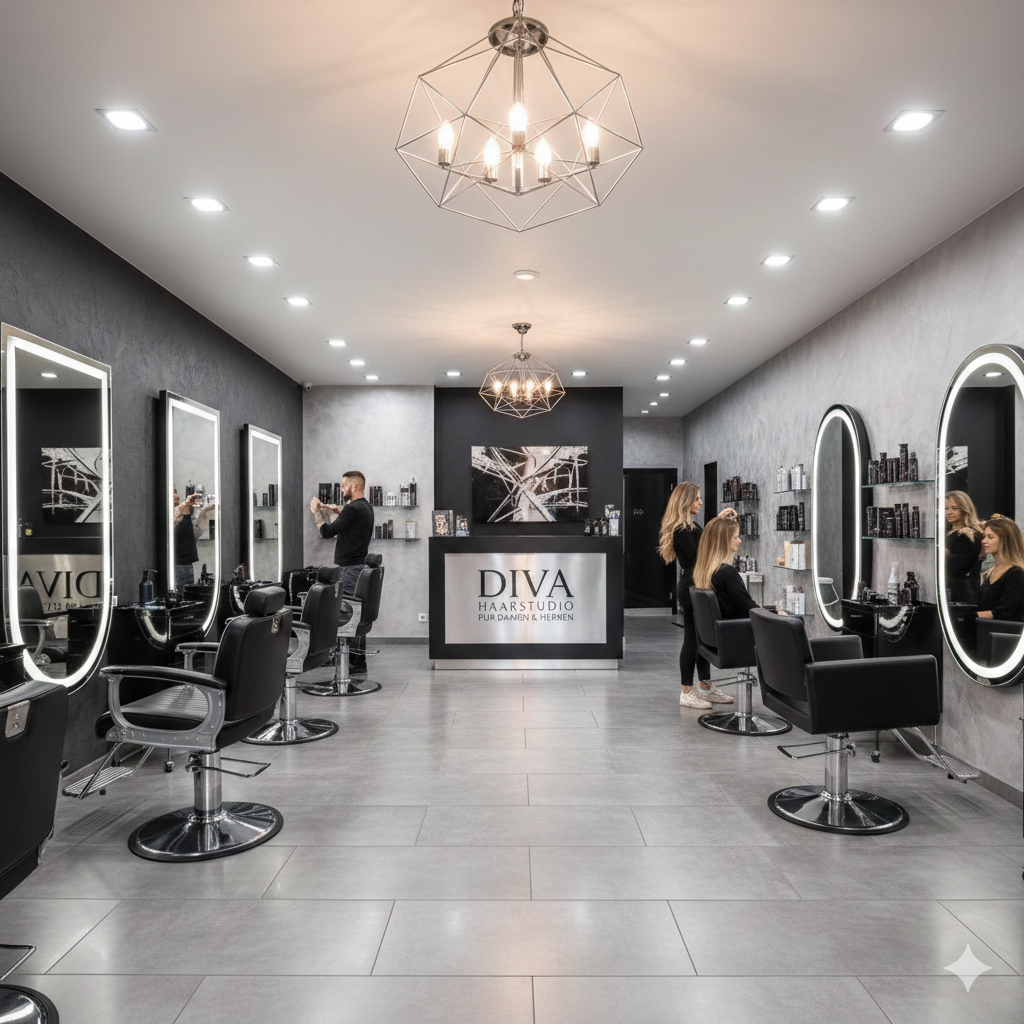
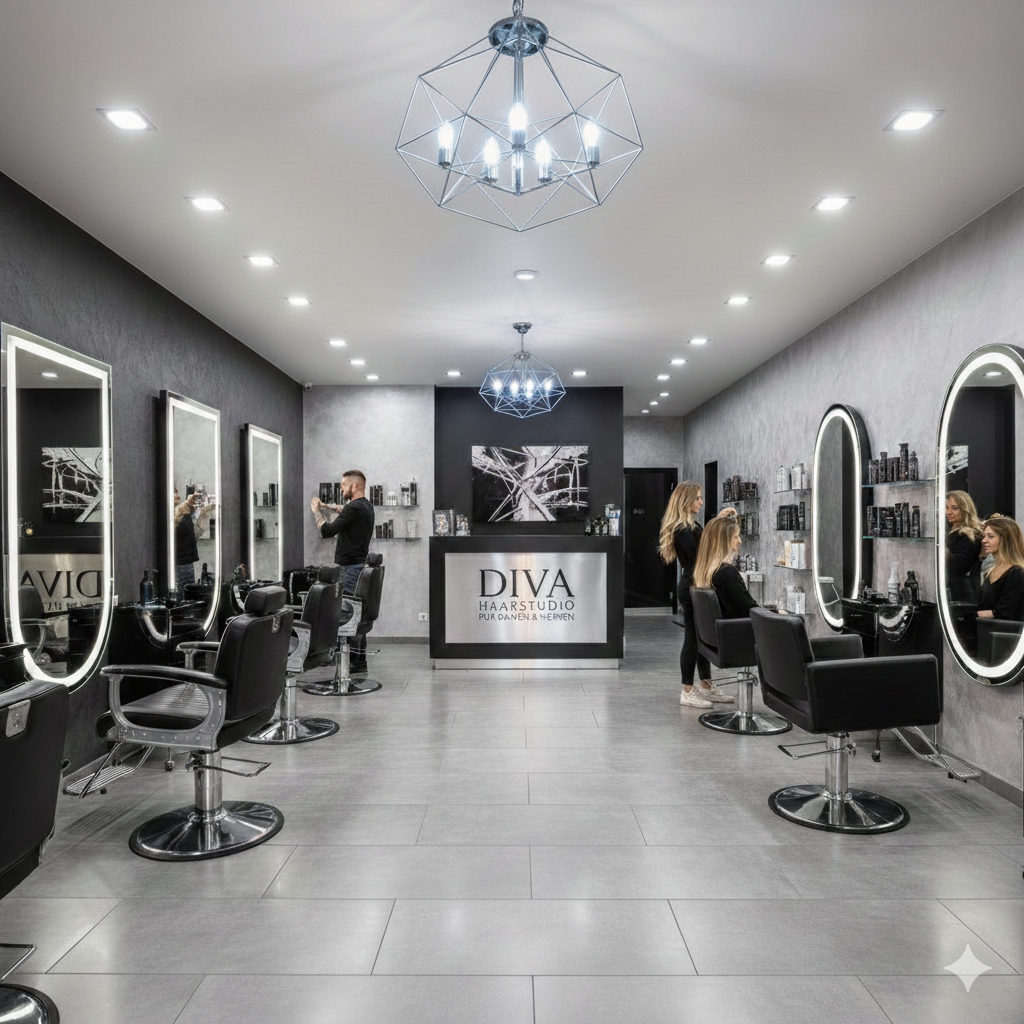
slogen update

diff --git a/src/components/Footer.tsx b/src/components/Footer.tsx
@@ -14,7 +14,7 @@ export const Footer = () => {
           {/* Brand */}
           <div className="space-y-4">
             {/* Logo + Motto */}
-            <Link to="/" className="flex items-center gap-3">
+            <Link to="/" className="flex items-center gap-6">
               <img
                 src="/res/Logo.png"
                 alt="Diva Haarstudio Logo"
@@ -25,19 +25,19 @@ export const Footer = () => {
               <div className="flex flex-col justify-center min-w-0 mt-2 sm:mt-0">
                 {/* MOBILE */}
                 <span
-                  className="sm:hidden text-base text-muted-foreground leading-tight"
+                  className="sm:hidden text-xl text-muted-foreground leading-tight"
                   style={{
                     fontFamily: "'Brush Script MT', 'Segoe Script', cursive",
                     letterSpacing: "0.03em",
                   }}
                 >
-                  Dein Haar<br />deine Krone 👑
+                  Dein Haar<br />deine Krone
                 </span>
 
                 {/* DESKTOP */}
                 <div className="hidden sm:flex flex-col border-l border-border/60 pl-3">
                   <span
-                    className="text-xl text-muted-foreground"
+                    className="text-2xl text-muted-foreground min-w-[320px] break-words"
                     style={{
                       fontFamily: "'Brush Script MT', 'Segoe Script', cursive",
                       letterSpacing: "0.04em",
@@ -46,13 +46,13 @@ export const Footer = () => {
                     Dein Haar
                   </span>
                   <span
-                    className="text-2xl text-primary min-w-[320px] break-words"
+                    className="text-3xl text-primary min-w-[320px] break-words"
                     style={{
                       fontFamily: "'Brush Script MT', 'Segoe Script', cursive",
                       letterSpacing: "0.05em",
                     }}
                   >
-                    deine Krone 👑
+                    deine Krone 
                   </span>
                 </div>
               </div>

diff --git a/src/components/Navigation.tsx b/src/components/Navigation.tsx
@@ -62,7 +62,7 @@ export const Navigation = () => {
     >
       <nav className="container mx-auto px-4 h-20 flex items-center justify-between">
         {/* LOGO + MOTTO */}
-        <Link to="/" className="flex items-center gap-2 flex-1 min-w-0">
+        <Link to="/" className="flex items-center gap-6 flex-1 min-w-0">
           <img
             src="/res/Logo.png"
             alt="Diva Haarstudio Logo"
@@ -73,19 +73,19 @@ export const Navigation = () => {
           <div className="flex flex-col justify-center min-w-0 mt-2 sm:mt-0">
             {/* MOBILE */}
             <span
-              className="sm:hidden text-base text-foreground/80 leading-tight break-words max-w-[320px]"
+              className="sm:hidden text-2xl text-foreground/80 leading-tight break-words min-w-[320px]"
               style={{
                 fontFamily: "'Brush Script MT', 'Segoe Script', cursive",
                 letterSpacing: "0.03em",
               }}
             >
-              Dein Haar<br />deine Krone 👑
+              Dein Haar<br />deine Krone 
             </span>
 
             {/* DESKTOP / TABLET */}
             <div className="hidden sm:flex flex-col border-l border-border/60 pl-3">
               <span
-                className="text-xl text-foreground/70"
+                className="text-2xl text-foreground/70 min-w-[320px] break-words"
                 style={{
                   fontFamily: "'Brush Script MT', 'Segoe Script', cursive",
                   letterSpacing: "0.04em",
@@ -94,13 +94,13 @@ export const Navigation = () => {
                 Dein Haar
               </span>
               <span
-                className="text-2xl text-primary"
+                className="text-3xl text-primary min-w-[320px] break-words"
                 style={{
                   fontFamily: "'Brush Script MT', 'Segoe Script', cursive",
                   letterSpacing: "0.05em",
                 }}
               >
-                deine Krone 👑
+                deine Krone 
               </span>
             </div>
           </div>

diff --git a/src/pages/Index.tsx b/src/pages/Index.tsx
@@ -141,10 +141,10 @@ const Index = () => {
               </p>
 
               <p className="text-muted-foreground">
-                ✨ <span className="font-semibold">Ihr Stil. Ihre Ausstrahlung. Unsere Leidenschaft.</span>
+                 <span className="font-semibold">Ihr Stil. Ihre Ausstrahlung. Unsere Leidenschaft.</span>
                 <br />
                 <span className="text-foreground">
-                  Unser Motto: <span className="font-semibold">Dein Haar … deine Krone</span> 👑 – wir
+                  Unser Motto: <span className="font-semibold">Dein Haar … deine Krone</span>  – wir
                   bringen es zum Strahlen!
                 </span>
               </p>
